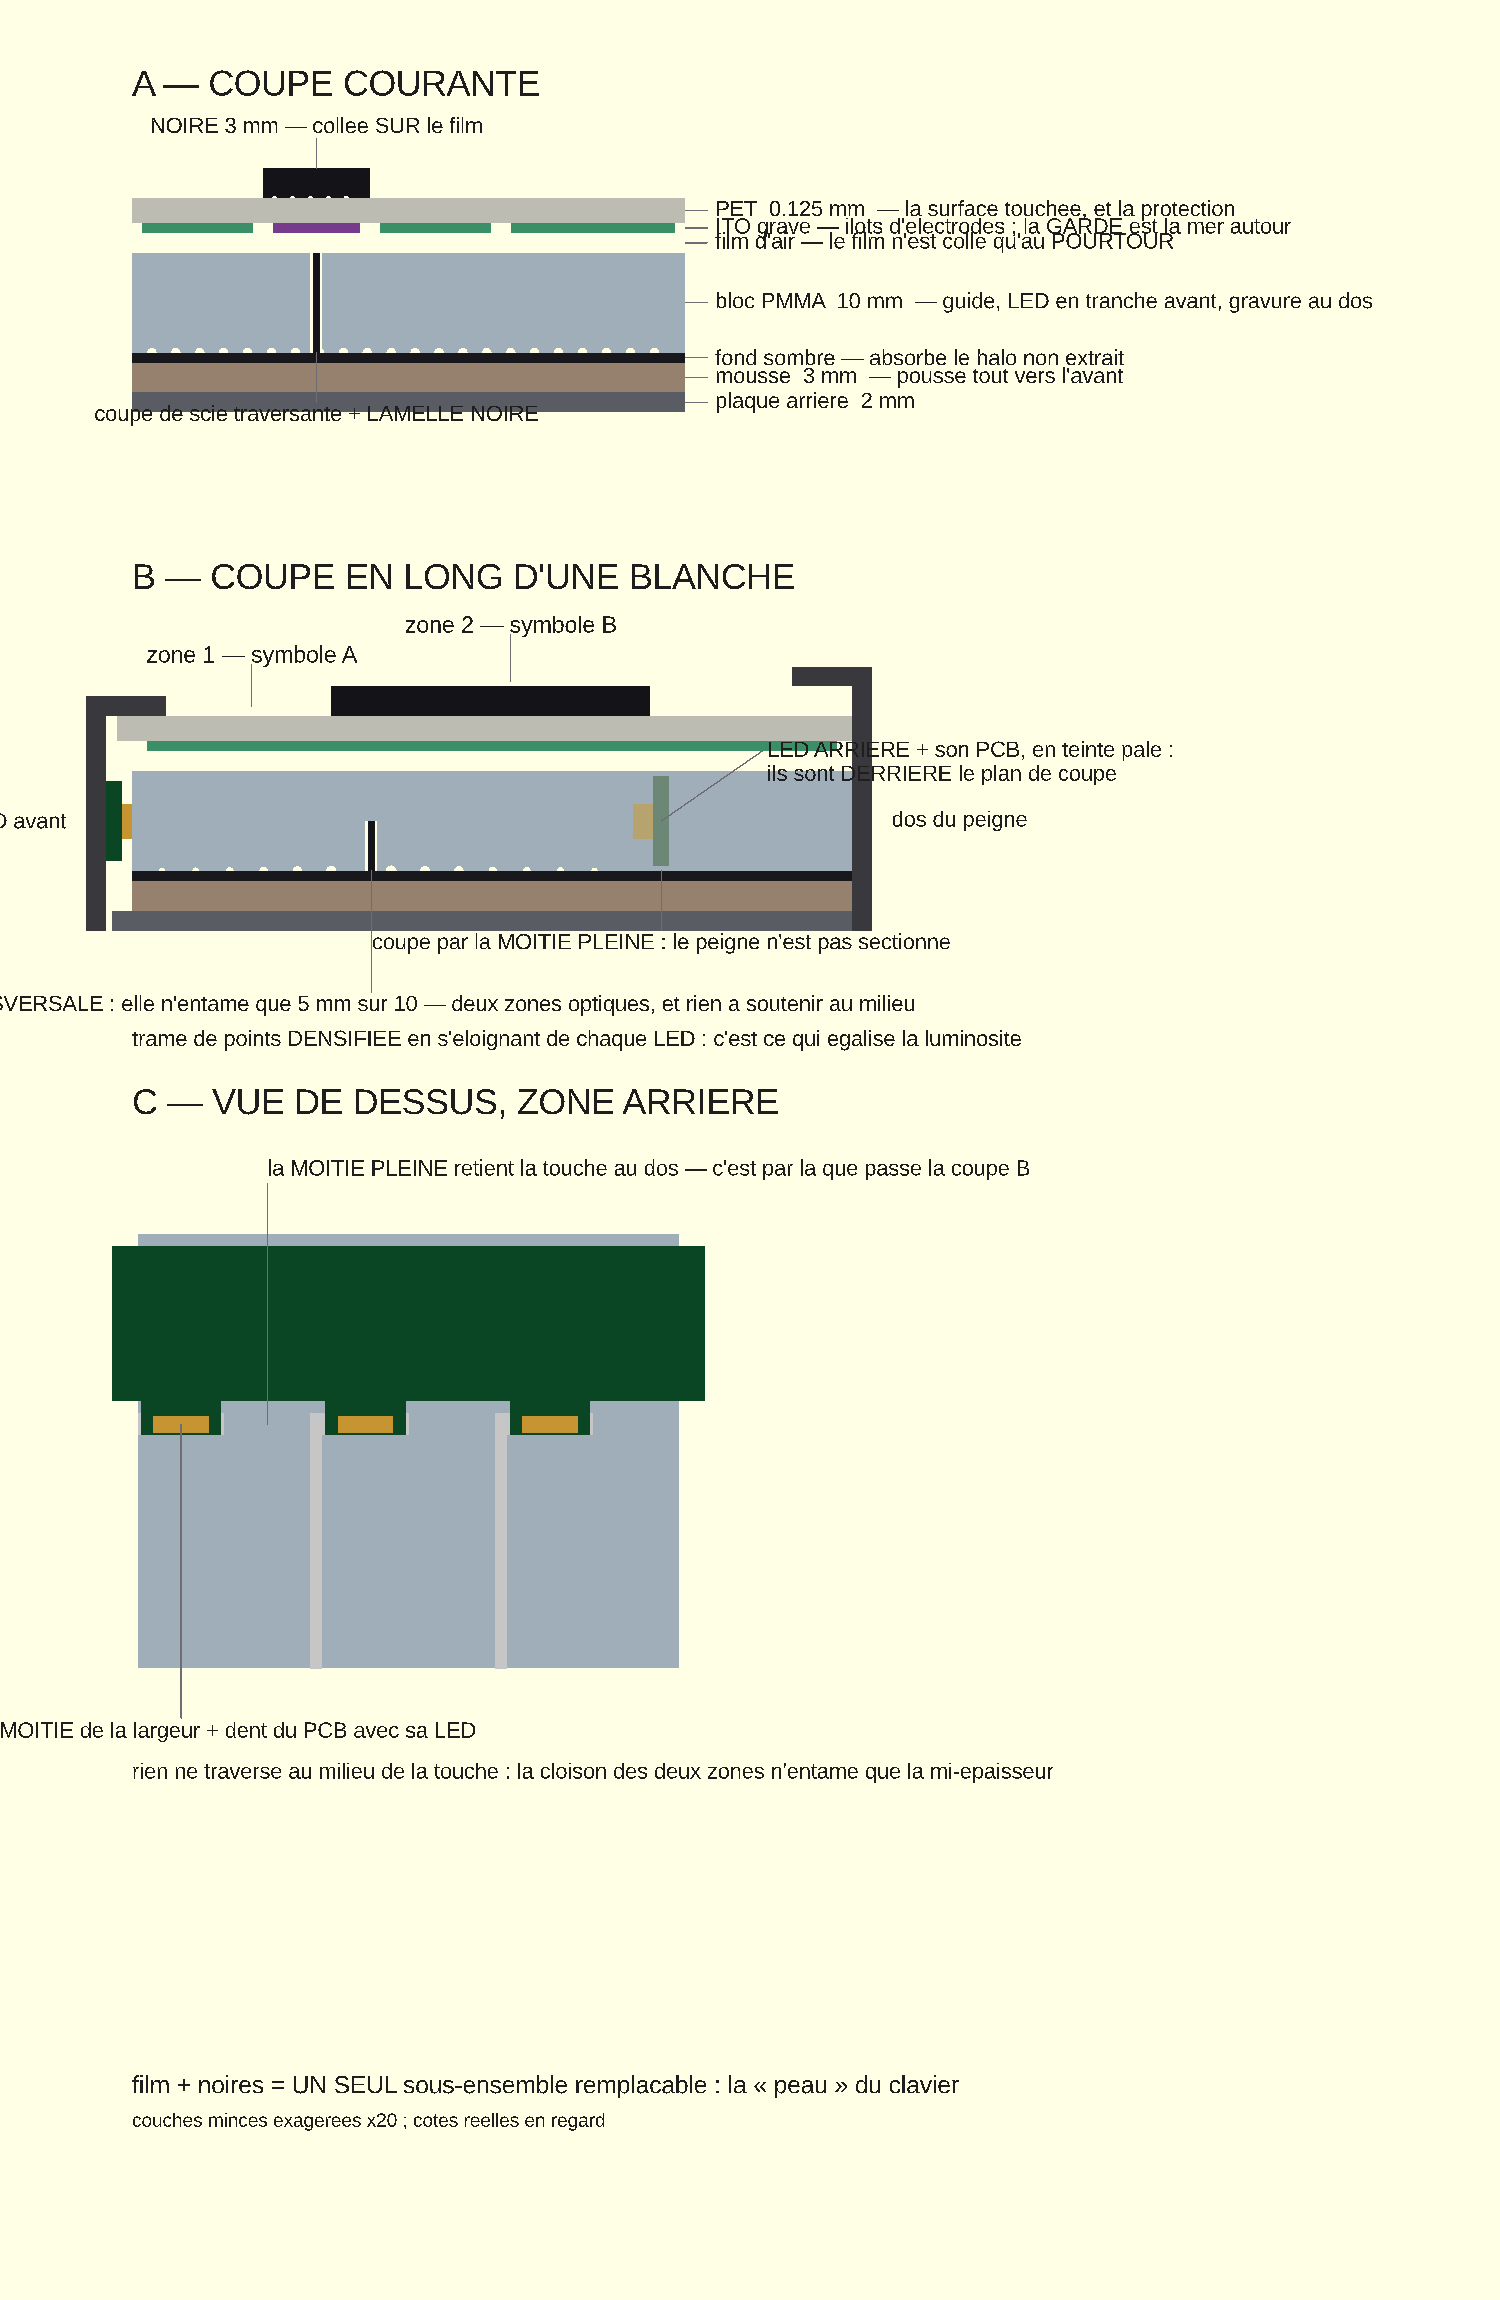
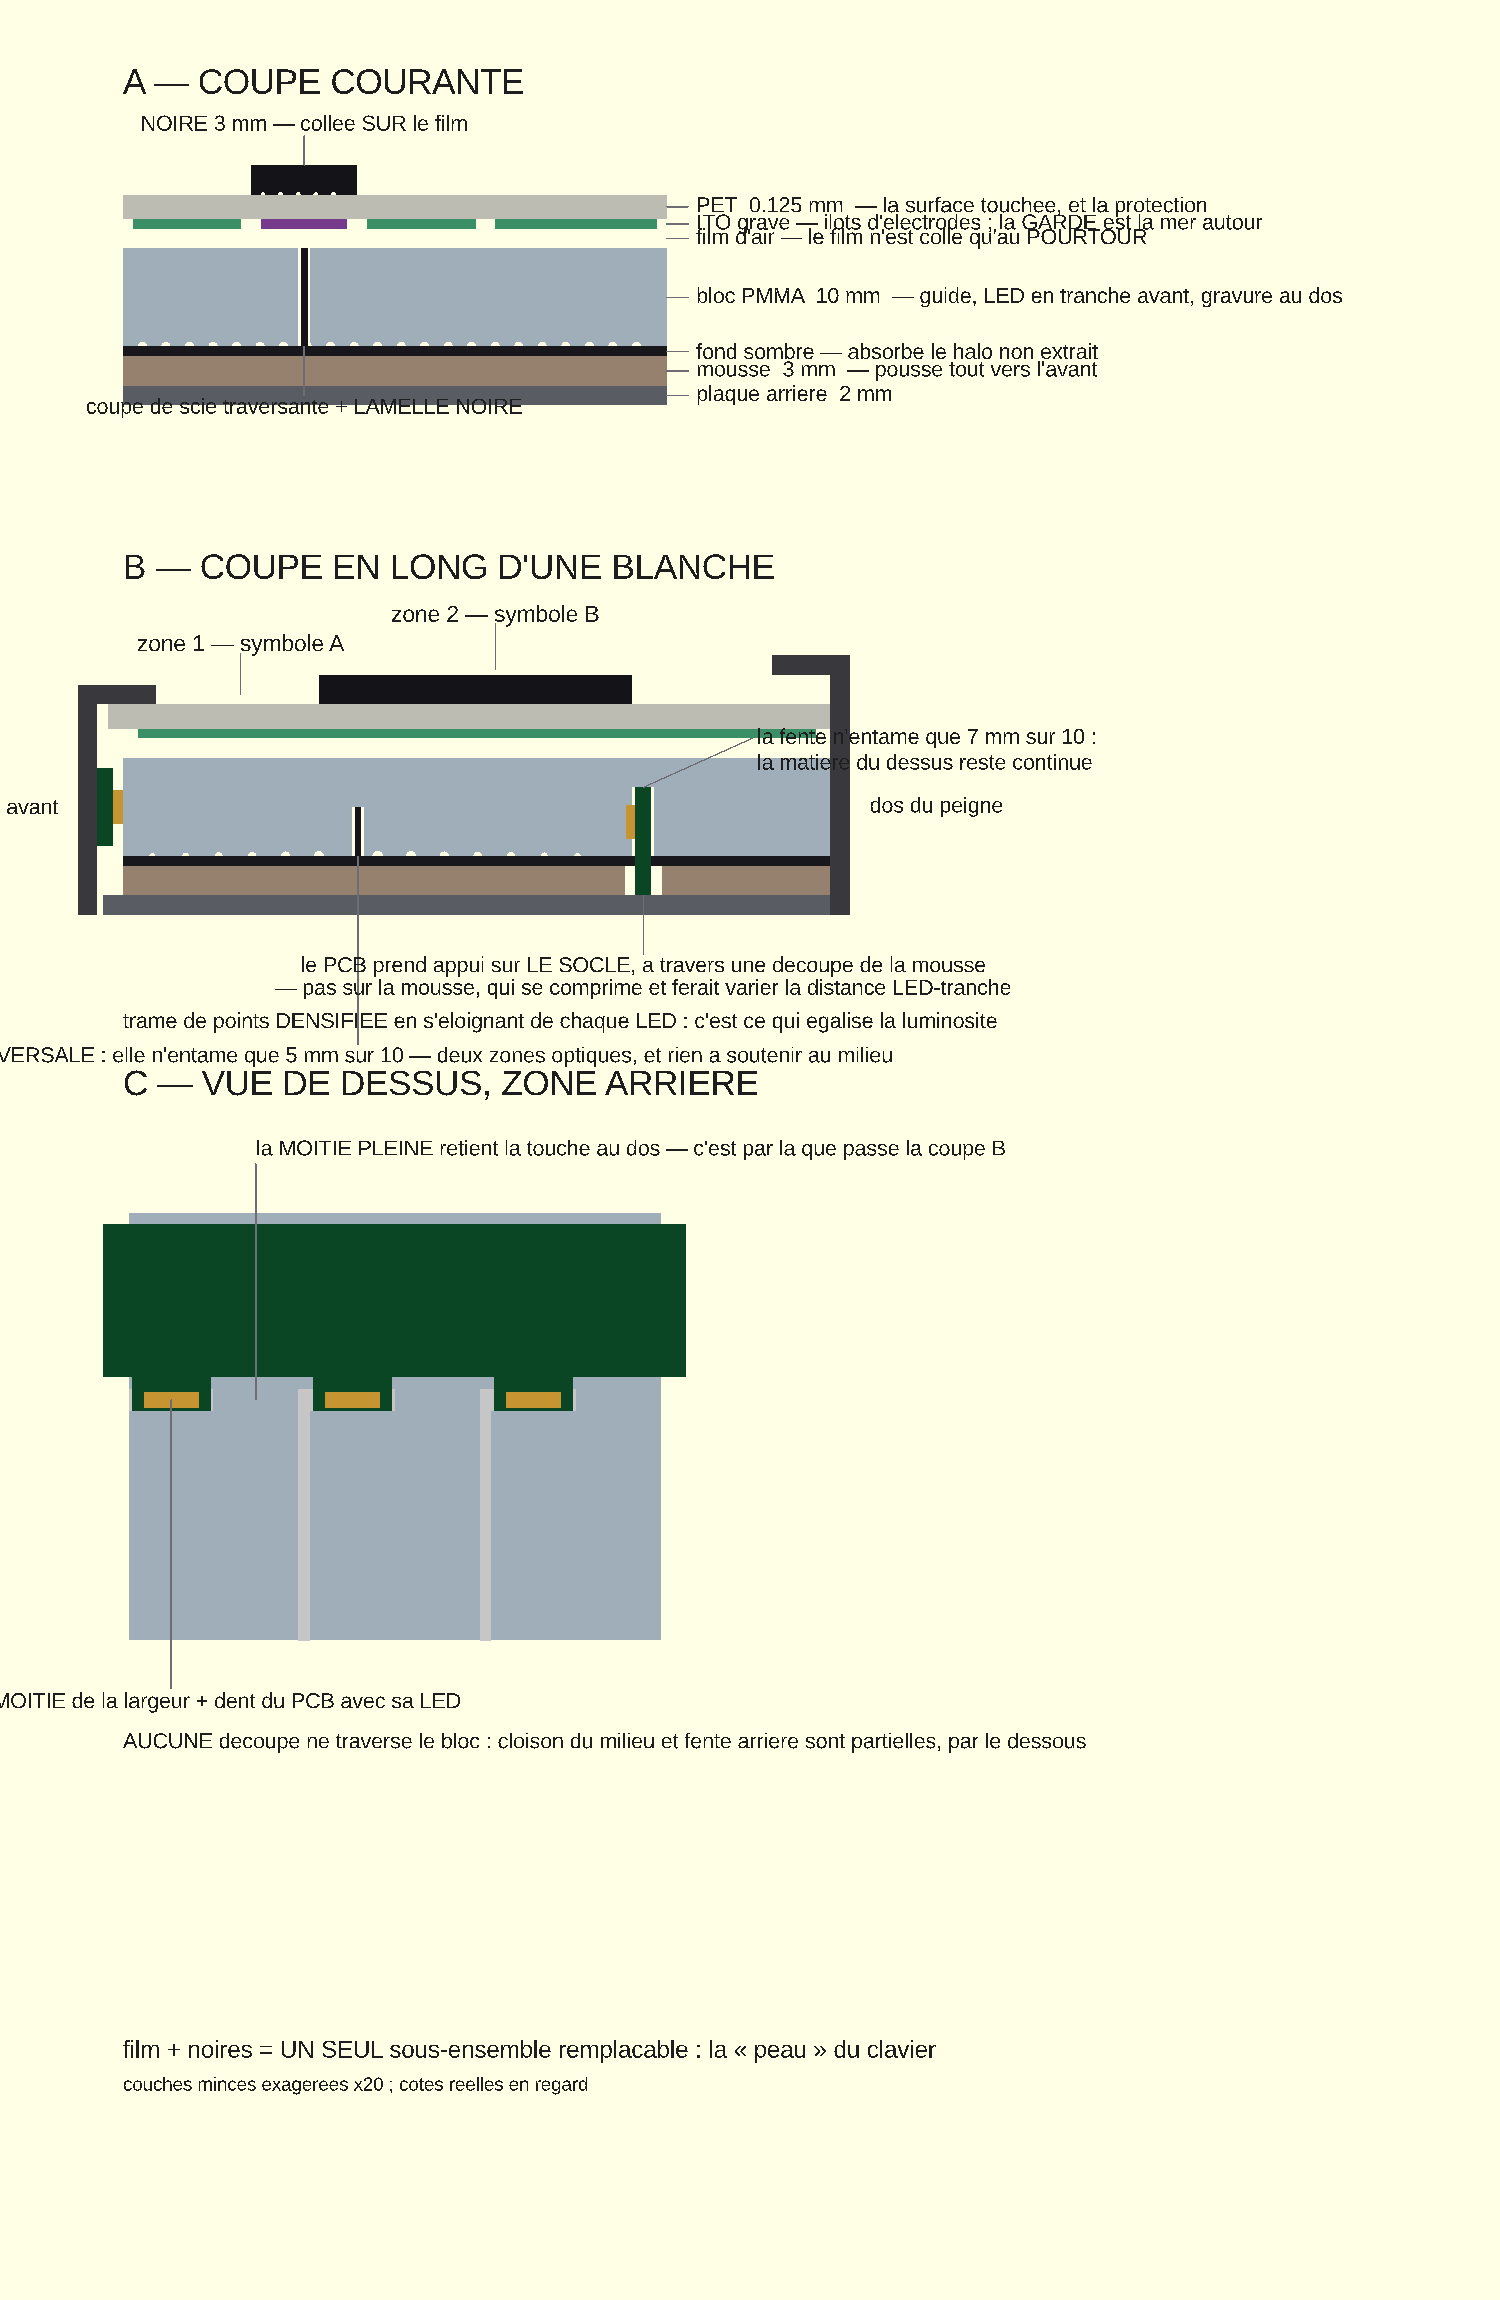
Méca : fente arrière partielle elle aussi, et PCB en appui sur le socle
Deux corrections, même principe que la cloison du milieu.

1. LA FENTE ARRIÈRE N'ENTAME QUE 7 mm SUR 10, par le dessous. Rien ne traverse :
   la matière du dessus reste continue et retient la touche au dos sur toute sa
   largeur. La demi-largeur n'est donc plus une nécessité mécanique — elle peut
   être élargie si l'optique le demande.
   Aucune découpe ne traverse désormais le bloc ; seuls les traits de scie entre
   blanches traversent, et ils s'arrêtent au dos.

2. LE PCB PREND APPUI SUR LE SOCLE, à travers une découpe de la mousse, et non
   sur la mousse. Une mousse se comprime : la distance LED-tranche varierait
   d'une touche à l'autre, donc la luminosité aussi.

La coupe B peut du coup montrer directement le PCB et sa LED, sans le figurer en
teinte pâle : le plan de coupe ne sectionne plus rien.

diff --git a/mechanical/README.md b/mechanical/README.md
@@ -276,8 +276,18 @@ la lumière entre elles, et rien n'a besoin d'être soutenu au milieu — ni cac
 ni PCB.
 
 **Les deux LED restent en tranche**, avant et arrière, avec leur **PCB inséré dans
-le plexi**. La **fente arrière n'occupe que la moitié de la largeur** de la
-touche : l'autre moitié reste pleine et retient la touche au dos.
+le plexi**. La **fente arrière n'entame que 7 mm sur 10, par le dessous** : rien
+ne traverse, la matière du dessus reste continue et retient la touche au dos sur
+toute sa largeur. La demi-largeur n'est donc plus une nécessité mécanique — elle
+peut être élargie si l'optique le demande.
+
+> **Le PCB arrière prend appui sur LE SOCLE**, à travers une découpe de la mousse
+> — et non sur la mousse. Une mousse se comprime : la distance LED↔tranche
+> varierait d'une touche à l'autre, donc la luminosité aussi.
+
+**Aucune découpe ne traverse le bloc.** Cloison du milieu (5 mm sur 10) et fente
+arrière (7 sur 10) sont toutes deux **partielles, par le dessous**. Seuls les
+traits de scie entre blanches traversent, et ils s'arrêtent au dos.
 
 > ⚠ **La coupe B passe par la moitié PLEINE.** C'est indispensable : une coupe par
 > la moitié ouverte montrerait un peigne sectionné, ce qu'il n'est pas. La fente
